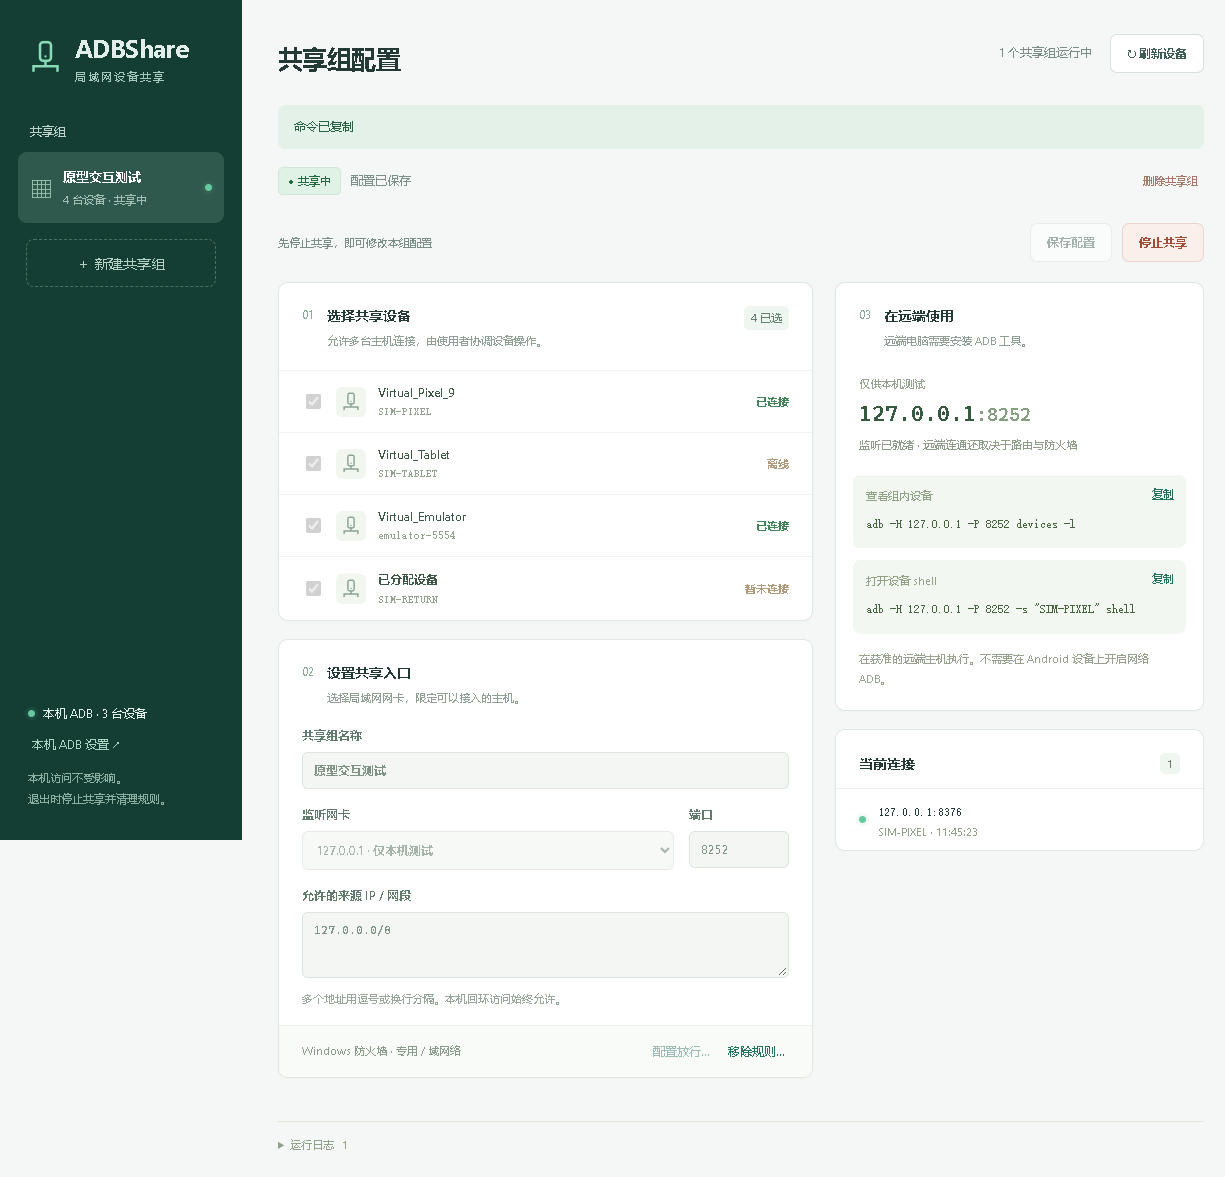
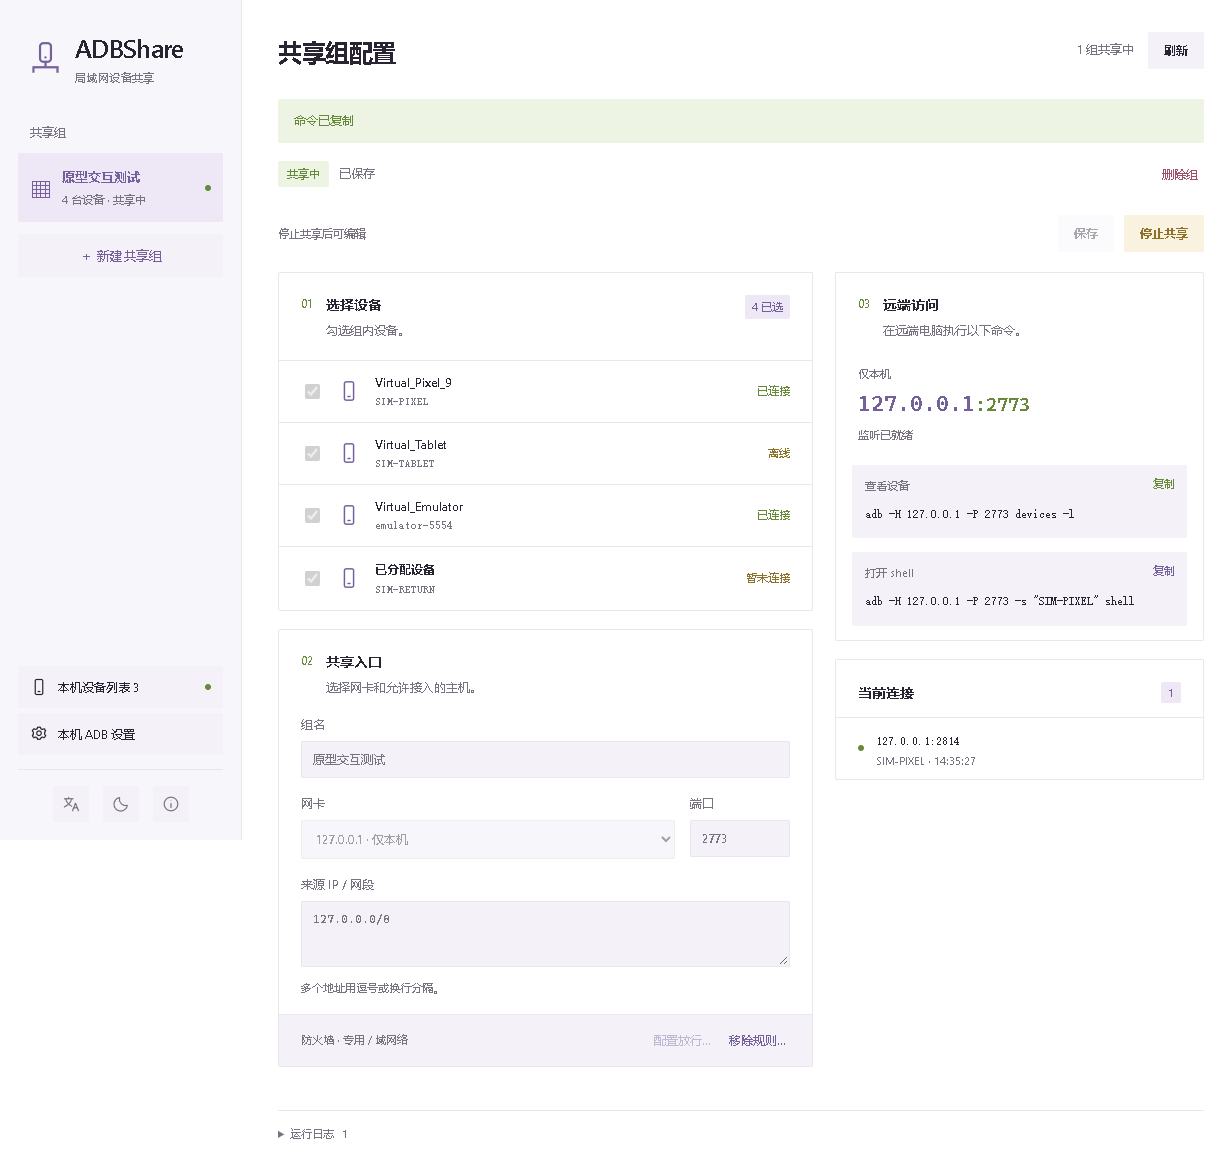
build: package source and licenses with validated desktop previews

diff --git a/README.md b/README.md
@@ -26,6 +26,10 @@ adb -H 192.168.1.10 -P 15037 -s SERIAL push test.txt /data/local/tmp/
 
 配置保存于 EXE 同级的 `data/config.json`；请放在可写目录。`ADB_SHARE_DATA_DIR` 可以覆盖配置目录。损坏配置会显示错误并阻止覆盖，需要修复或移走后重启。
 
+侧栏下方的“本机设备列表 N”展示实际发现的设备，点击可查看完整列表；“本机 ADB 设置”为独立按钮。最底部三个方形图标分别切换语言、切换主题和打开关于页。语言与主题偏好会保存在本机，切换不会丢失当前编辑内容。两套配色分别使用白色 / 淡紫 / 草绿和黑色 / 天蓝 / 黄色，均无阴影、无渐变。
+
+关于页显示名称、版本、实际构建时间、作者和 GPLv3，并可离线阅读项目许可证和按组件查看第三方声明。
+
 防火墙规则以组 UUID 标识。普通“停止共享”关闭连接，删除组和退出程序自动清理规则。仅存在待清理规则时请求 UAC，退出时合并清理多组规则。`data/firewall-rules.json` 记录尚需清理的规则，以便失败或重启后重试，也会识别此前版本为当前 EXE 创建的遗留规则。移动 EXE 后需要重新配置规则。
 
 ## 无真机演示
@@ -44,6 +48,7 @@ Windows 开发需要 Rust MSVC、Visual Studio C++ Build Tools、Node.js 和 Web
 
 ```powershell
 npm ci
+cargo fetch --locked --target x86_64-pc-windows-msvc --manifest-path src-tauri/Cargo.toml
 npm run tauri -- dev
 npm run build
 npm test
@@ -51,6 +56,8 @@ npm run build:app
 ```
 
 编译产物为 `src-tauri/target/release/adbshare.exe`。执行 `scripts/package.ps1` 可复制为命名产物并生成 SHA256SUMS。
+
+`npm run build:app` 在构建时注入时间戳，并生成 Windows 依赖声明。`npm run notices:check` 核对声明是否与锁定依赖一致；声明生成使用已缓存的 crate 原始许可证。未随 crate 打包的原文在 `licenses/supplements` 中保存，其上游版本和来源可追溯。
 
 标准 adb 集成测试会启动原型的 headless 模式和虚拟上游，只在回环地址运行，不触碰真实设备或防火墙：
 
@@ -75,5 +82,11 @@ npm run test:integration
 - 同时打开多个应用实例尚不属于推荐用法；本工具未实现跨实例配置协调。
 
 工程基线见 [docs/design-baseline.md](docs/design-baseline.md)，测试与待验证项见 [docs/validation.md](docs/validation.md)。
+
+## 许可证与源码
+
+Copyright © 2026 wooooooooolf。ADBShare 采用 [GPLv3（GPL-3.0-only）](LICENSE)。第三方组件保留各自许可证，详见 [第三方声明](THIRD_PARTY_NOTICES.txt)。打包目录提供 EXE、许可证、第三方声明和对应源码 ZIP。源码包只包含构建所需的工程文件，不包含本机配置、缓存和 Git 元数据。
+
+当前只进行本地开发，公开仓库待界面与流程调整完成后再建立。
 
 ![共享组原型界面](docs/images/sharing.png)

diff --git a/docs/validation.md b/docs/validation.md
@@ -31,10 +31,16 @@
 - 清理记录损坏时，删除会停止共享并保留组；修复后可重试删除，成功后无横幅。
 - 删除多组中的一组后，自动显示剩余组；最后一个组删除后显示简洁欢迎首页。
 - 本机设置窗口展示正确的上游端口。
+- 本机设备列表入口显示实际数量；虚拟上游减少 / 恢复设备时，入口数字和列表同步更新。
+- 中英文切换覆盖标题、状态、设置、占位文字和错误反馈，并保留草稿；语言和主题偏好在刷新后保留。
+- 浅色 / 深色主题切换正常，已检查两套配色；移除旧的双句侧栏提示，底部三个方形图标入口可用。
+- 关于页展示构建注入的时间、实际版本、作者、GPLv3；项目许可证和第三方组件许可证均从 EXE 内置内容读取，第三方声明按组件加载以避免整页大文本阻塞。
 - 通过原生 WM_CLOSE 关闭主窗口；规则清理失败时窗口保留并显示原因，修复后重试成功，监听端口释放、程序退出。
 - 未发现 WebView JavaScript 错误。
 
 已查看 [共享中截图](images/sharing.png) 和 [空状态截图](images/welcome.png)。此首版允许窗口内容纵向滚动，主要保存/启停操作已置于顶部。
+
+新增配色与关于页截图：[深色英文](images/dark-en.png)、[浅色英文](images/light-en.png)、[关于页](images/about-dark-en.png)。第三方声明覆盖 256 个锁定的 Windows Cargo / JavaScript 组件（包括构建依赖与可能注入运行时代码的 Vite），通过 `notices:check` 核对。
 
 复测：`npm run test:ui`。只操作该脚本自行创建的隔离配置、虚拟上游与测试窗口。测试使用独立路径的 EXE 副本，避免识别日常使用 EXE 的规则；失败路径通过损坏测试清理记录触发，未批准实际 UAC，也未创建真实规则。
 
